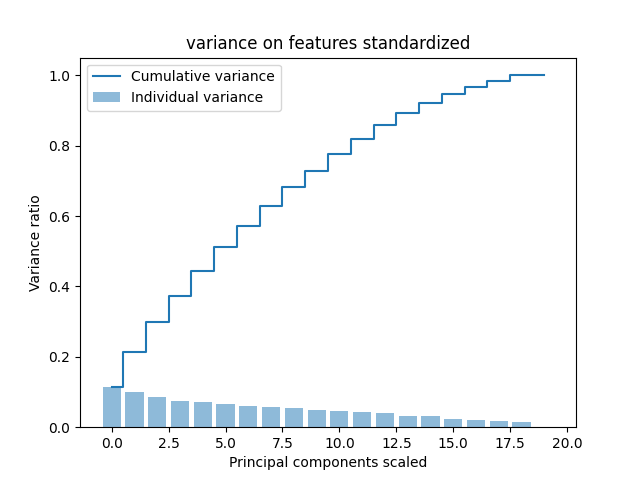
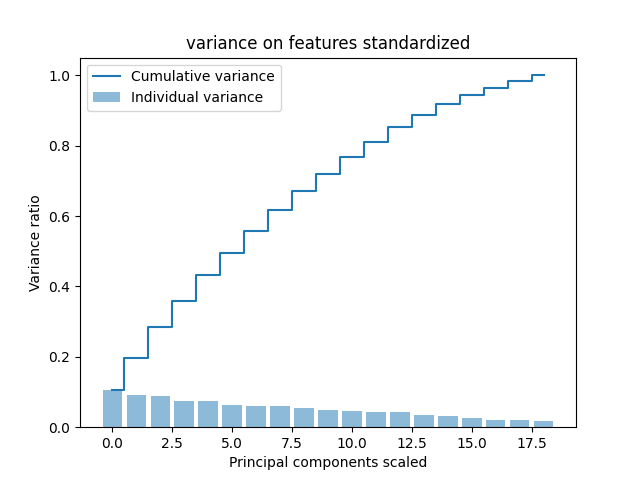
experiments

Changed region(s): [[0.1562, 0.7812, 0.9062, 0.9375], [0.4062, 0.1562, 0.8438, 0.4688], [0.1875, 0.4688, 0.4062, 0.75]]

diff --git a/project_SDA_part2.py b/project_SDA_part2.py
@@ -8,6 +8,7 @@ import matplotlib.pyplot as plt
 from tqdm import tqdm
 import pandas as pd
 import seaborn as sns
+import random
 
 #Caricamento dei dati
 def load_data(file_name):
@@ -41,8 +42,50 @@ def load_data(file_name):
         print('Falses', falses)
     return x,y
 
+def find_outliers(x):
+    outliers = []
+    m, _ = x.shape
+    l = []
+    for i in range(m):
+        l.append(sum(x[i,:]))
+    xt = np.sort(l)
+    xt = list(xt)
+    print("Rows tot after reduction:", len(xt))
+    l1 = 0.25 * len(xt)
+    l3 = 0.75 * len(xt)
+    q1 = xt[round(l1)]
+    q3 = xt[round(l3)]
+    iqr = q3 - q1
+    print('q1',q1,'q3',q3,'iqr',iqr)
+    upb = q3 + 1.5 * iqr
+    lowb = q1 - 1.5 * iqr
+    for i in range(len(xt)):
+        if xt[i] > upb or xt[i] < lowb:
+            outliers.append(xt[i])
+    print('Outliers numb. ', len(outliers))
+    print('==============================================')
+    return outliers
+
 #Riduzione della dimensionalità
-def dimensionality_reduction(X,file_path,min_variance=0.95):
+def correlation_dimensionality_reduction(x, min_corr=0.75):
+    X = pd.DataFrame.from_dict(x)
+    # Step 1: Compute the correlation matrix
+    corr_matrix = X.corr().abs()
+    # Step 2: Identify correlated variables
+    upper = corr_matrix.where(pd.DataFrame(np.triu(np.ones(corr_matrix.shape), k=1)).astype(bool))
+    to_drop = [col for col in upper.columns if any(upper[col] > min_corr)]
+    # Step 3: Remove correlated variables
+    X_reduced = X.drop(columns=to_drop)
+    # Print information about deleted variables
+    print(f"After correlation deleted {len(to_drop)} variables: {to_drop}")
+    return X_reduced,to_drop
+
+def drop_columns(x,columns_to_drop):
+    X = pd.DataFrame.from_dict(x)
+    X_reduced = X.drop(columns=columns_to_drop)
+    return X_reduced
+
+def pca_dimensionality_reduction(X,file_path,min_variance=0.90):
     features_standardized = standardization(X)
     n_components = len(features_standardized[0])
     pca_scaled = PCA(n_components)
@@ -51,6 +94,7 @@ def dimensionality_reduction(X,file_path,min_variance=0.95):
     plot_variance(pca_scaled.explained_variance_ratio_,cumulative_variance_scaled, np.arange(n_components), 'Principal components scaled', 'Variance ratio','variance on features standardized',file_path=file_path)
     # Find the number of components for at least min variance
     n_components_min_variance = np.argmax(cumulative_variance_scaled >= min_variance) + 1
+    print(f"After PCA deleted {n_components-n_components_min_variance}")
     # Implementare il codice per la riduzione della dimensionalità
     pca_reducer = PCA(n_components_min_variance)
     features_reduced = pca_reducer.fit_transform(features_standardized)
@@ -72,39 +116,37 @@ def plot_variance(variance, cum_variance, interval, x_label, y_label,title,file_
     plt.savefig(file_path)
     plt.clf()
 
-# Sigmoid function
-def sigmoid(z):
-    z = np.clip(z, -500, 500)
-    return 1 / (1 + np.exp(-z))
-
 def compute_gradient_logisticLoss(y, X, beta):
     y = np.array(y)
     X = np.array(X)
-    #print('y',y.shape)
-    #print('x',X.shape)
-    #print('beta',beta.shape)
-    #beta = np.expand_dims(beta, 0)
-    return (-y * X.T) / (1 + np.exp(y * np.dot(X.T, beta)))
+    grad = (-y * X.T) / (1 + np.exp(y * np.dot(X.T, beta)))
+    loss = np.mean(np.log(1 + np.exp(-y * np.dot(X, beta)))) # Logistic loss
+    return grad, loss
 
-def logistic_class_SGD_logisticLoss(X, y, lr=0.01, n_epochs=10, file_path='gradient_vs_epoch.png'):
+def logistic_class_SGD_logisticLoss(X, y, loss_path, lr=0.01, n_epochs=10, file_path='gradient_vs_epoch.png'):
     X = np.insert(X, 0, 1, axis=1)
     m, n = X.shape
     weights = np.random.normal(size=n)
     epoch_avg_gradients = []  # Store average gradients for each epoch
+    loss_history = []
     for epoch in tqdm(range(n_epochs)):
+        losses = []
         epoch_gradients = []
+        randomlist = random.sample(range(0, m), m)
         for i in range(m):
-            random_idx = np.random.randint(m)
+            random_idx = randomlist[i]
             xi = X[random_idx:random_idx+1]
             xi = np.reshape(xi, n)
             yi = y[random_idx:random_idx+1]
-            #wi = weights[random_idx:random_idx+1]
-            gradient = compute_gradient_logisticLoss(yi, xi, weights)
+            gradient, loss = compute_gradient_logisticLoss(yi, xi, weights)
             weights -= lr * gradient
             epoch_gradients.append(np.linalg.norm(gradient))
+            losses.append(np.linalg.norm(loss))
         epoch_avg_gradient = np.mean(epoch_gradients)
         epoch_avg_gradients.append(epoch_avg_gradient)
+        loss_history.append(np.mean(losses))
     plot_gradients(epoch_avg_gradients, file_path)
+    plot_losses(loss_history, loss_path + str(lr) + '.png')
     return weights
 
 def plot_gradients(gradient_norms, file_path):
@@ -116,28 +158,33 @@ def plot_gradients(gradient_norms, file_path):
     plt.savefig(file_path)
     plt.clf()
 
-def predict(X, weights):
-    X = np.insert(X, 0, 1, axis=1)
-    probabilities = sigmoid(np.dot(X, weights))
-    return [1.0 if p > 0.5 else -1.0 for p in probabilities]
+def plot_losses(losses, file_path):
+    plt.plot(range(len(losses)), losses, marker='o', color='red')
+    plt.xlabel('Epoch')
+    plt.ylabel('Loss')
+    plt.title('Loss vs Epoch')
+    plt.grid(True)
+    plt.savefig(file_path)
+    plt.clf()
 
-def logistic_classifer(X, y, step_size=0.1, epochs=20,file_path='logistic_classifier.png'):
-    weights = logistic_class_SGD_logisticLoss(X, y, step_size, epochs,file_path)
-    predictions = predict(X, weights)
+def logistic_classifer(X, y, loss_path, step_size=0.1, epochs=50, file_path='logistic_classifier.png'):
+    weights = logistic_class_SGD_logisticLoss(X, y, loss_path, step_size, epochs,file_path)
+    X = np.insert(X, 0, 1, axis=1)
+    predictions = logistic_inference(X, weights)
     return predictions, weights
 
-def evaluate_step_sizes(X, y,step_sizes,epochs,file_path):
+def evaluate_step_sizes(X, y, loss_path, step_sizes, epochs, file_path):
     pred_best = None
     beta_best = None
     highest_accuracy = 0
     best_step_size = None
     accuracies = []
     for step_size in step_sizes:
-        pred, beta = logistic_classifer(X, y, step_size=step_size,epochs=epochs,file_path=os.path.join(images_path,'gradient_epochs_with_step_size_'+str(step_size)+'.png'))
+        pred, beta = logistic_classifer(X, y, loss_path, step_size=step_size,epochs=epochs,file_path=os.path.join(images_path,'gradient_epochs_with_step_size_'+str(step_size)+'.png'))
         vett = [1 if pred[i]==y[i] else 0 for i in range(len(y))]
         accuracy = sum(vett)/len(vett)
-        print('Accuracy for', step_size, accuracy)
-        accuracies.append(round(accuracy,3))
+        print('Accuracy for', step_size, ':', accuracy)
+        accuracies.append(round(accuracy,5))
         # Store the best model
         if accuracy >= highest_accuracy:
             highest_accuracy = accuracy
@@ -164,15 +211,14 @@ def plot_accuracy_step_sizes(accuracies,step_sizes,file_path):
     plt.clf()  # Clear the plot
 
 # Inference function for new X values
-def logistic_inference(X_test, best_theta):
+def logistic_inference(X_test, best_beta):
     predictions = []
     for i, x_value in enumerate(X_test):
-        res = np.dot(x_value, best_theta)
+        res = np.dot(x_value, best_beta)
         if res > 0:
             predictions.append(1.0)
         else:
             predictions.append(-1.0)
-    print(f"Lenght of predictions {len(predictions)}")
     return predictions
     
 # 6. Regola di decisione
@@ -200,12 +246,24 @@ def plot_correlation_matrix(x,filename):
     plt.savefig(filename)
     plt.clf()
 
+def remove_outliers(outs,x,y):
+    print("Before outliers: X ", x.shape, "- y", len(y))
+    new_y = []
+    new_x = []
+    m,n = x.shape
+    for i in range(m):
+        if sum(x[i,:]) not in outs:
+            new_x.append(x[i,:])
+            new_y.append(y[i])
+    new_x = np.array(new_x)
+    print("After outliers: X ", new_x.shape, "- y", len(new_y))
+    print('==============================================')
+    return new_x, new_y
+
 if __name__ == "__main__":
-    
     images_path = os.path.join(os.getcwd(),'Images')
     if os.path.exists(images_path) is False:
         os.makedirs(images_path)
-
     #load data
     print('==============================================')
     print("Train data:")
@@ -215,26 +273,36 @@ if __name__ == "__main__":
     print("Test data:")
     test_file_name = "Gruppo 3/test.mat"
     x_test,y_test = load_data(file_name=test_file_name)
-
-    plot_correlation_matrix(x_train,filename=os.path.join(images_path,'correlation_matrix.png'))
-    
+    plot_correlation_matrix(x_train,filename=os.path.join(images_path,'correlation_matrix_before_dim_reduction.png'))
     print('==============================================')
+    print("Dimensionality Reduction...")
+    print("Correlation...")
     #reduce dimensionality
-    x_train_reduced,pca_reducer = dimensionality_reduction(x_train,file_path=os.path.join(images_path,'dimensionality_reduction.png'))
-    print("Features arrays reduced:", len(x_train_reduced))
-    print("Features per train array reduced:", len(x_train_reduced[0]))
+    x_corr_reduced,columns_dropped= correlation_dimensionality_reduction(x_train)
+    x_test_corr_reduced = drop_columns(x_test,columns_dropped)
+    print("Features arrays reduced:", len(x_corr_reduced))
+    print("Features per train array reduced:", x_corr_reduced.shape[1])
+    plot_correlation_matrix(x_corr_reduced,filename=os.path.join(images_path,'correlation_matrix_after_corr_reduction.png'))
     print('==============================================')
+    print("PCA...")
+    x_corr_pca_reduced,pca_reducer = pca_dimensionality_reduction(x_corr_reduced,file_path=os.path.join(images_path,'dimensionality_reduction.png'))
+    plot_correlation_matrix(x_corr_pca_reduced,filename=os.path.join(images_path,'correlation_matrix_after_corr_and_pca_reduction.png'))
+    print("Features arrays reduced:", len(x_corr_pca_reduced))
+    print("Features per train array reduced:", len(x_corr_pca_reduced[0]))
+    print('==============================================')
+    outs = find_outliers(x_corr_pca_reduced)
+    x_corr_pca_reduced,y_train = remove_outliers(outs,x_corr_pca_reduced,y_train)
+    print('Test')
     #step sizes
     step_sizes = [0.00001, 0.0001, 0.001, 0.01, 0.1, 1]
     #find best logistic classifier
-    best_bias,best_beta = evaluate_step_sizes(x_train_reduced,y_train,step_sizes,epochs = 15,file_path=os.path.join(images_path,'accuracy on step size.png'))
+    best_bias,best_beta = evaluate_step_sizes(x_corr_pca_reduced,y_train,os.path.join(images_path,'Loss for stepsize '),step_sizes,epochs = 20,file_path=os.path.join(images_path,'accuracy on step size.png'))
     best_beta = best_beta[1:]
-    #print(f"best beta:{best_beta}")
-    x_test_reduced = pca_reducer.transform(x_test)
+    x_test_corr_pca_reduced = pca_reducer.transform(x_test_corr_reduced)
     print('==============================================')
-    print("Lenght x test reduced:",len(x_test_reduced[0]))
+    print("Lenght x test reduced:",len(x_test_corr_pca_reduced[0]))
     #predictions on test data
-    predictions = logistic_inference(x_test_reduced,best_beta)
+    predictions = logistic_inference(x_test_corr_pca_reduced,best_beta)
     #print(predictions)
     #convert predictions to binary
     binary_bytes = decision_rule(predictions)
